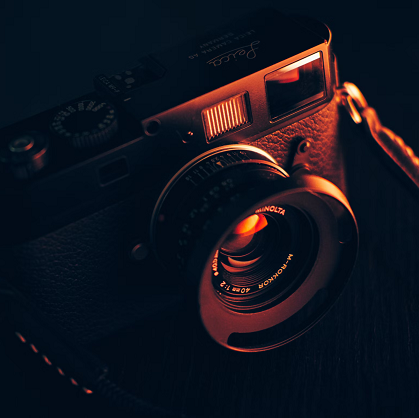
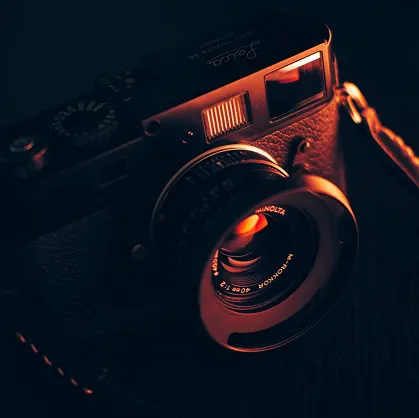
Optimisation

diff --git a/index.html b/index.html
@@ -3,6 +3,8 @@
 <head>
 	<meta charset="UTF-8">
 	<meta name="viewport" content="width=device-width, initial-scale=1.0">
+	<meta name="theme-color" content="#fff"/>
+	<meta name="description" content="Nina Carducci photographe mariage portfolio Bordeaux shooting séances retouches">
 	<link rel="stylesheet" href="./assets/bootstrap/bootstrap.min.css">
 	<link rel="stylesheet" href="./assets/style.css">
 	<link rel="preconnect" href="https://fonts.googleapis.com">
@@ -23,7 +25,7 @@
 				<li><a href="#gallery">Galerie</a></li>
 				<li><a href="#services">Service</a></li>
 				<li><a href="#contact">Contact</a></li>
-				<li><a class="social-link" href="https://www.instagram.com/ninacarducci.photo/?hl=fr" rel=noopener target="_blank"><img src="assets/images/instagram.webp" alt="Logo Instagram"></a></li>
+				<li><a class="social-link" href="https://www.instagram.com/ninacarducci.photo/?hl=fr" rel=noopener target="_blank"><img src="assets/images/instagram.webp" alt="Logo Instagram" width="20" height="20"></a></li>
 			</ul>
 		</div>
 	</div>
@@ -36,13 +38,13 @@
 			</div>
 			<div class="carousel-inner">
 				<div class="carousel-item active">
-					<img src="./assets/images/slider/ryoji-iwata-wUZjnOv7t0g-unsplash.webp" class="d-block w-100" alt="Photo d'un homme traversant un passage piéton">
+					<img src="./assets/images/slider/ryoji-iwata-wUZjnOv7t0g-unsplash.webp" class="d-block w-100" alt="Photo d'un homme traversant un passage piéton" width="1920" height="888">
 				</div>
 				<div class="carousel-item">
-					<img src="./assets/images/slider/nicholas-green-nPz8akkUmDI-unsplash.webp" class="d-block w-100" alt="Photo de foule d'un concert">
+					<img src="./assets/images/slider/nicholas-green-nPz8akkUmDI-unsplash.webp" class="d-block w-100" alt="Photo de foule d'un concert" width="1920" height="888">
 				</div>
 				<div class="carousel-item">
-					<img src="./assets/images/slider/edward-cisneros-3_h6-1NPDGw-unsplash.webp" class="d-block w-100" alt="Photo d'un couple marié qui s'embrasse">
+					<img src="./assets/images/slider/edward-cisneros-3_h6-1NPDGw-unsplash.webp" class="d-block w-100" alt="Photo d'un couple marié qui s'embrasse" width="1920" height="888">
 				</div>
 			</div>
 			<button class="carousel-control-prev" type="button" data-bs-target="#carouselExampleIndicators" data-bs-slide="prev">
@@ -57,11 +59,11 @@
 	</div>
 	<div id="about">
 		<div class="picture left">
-			<img src="./assets/images/nina.webp" alt="Nina Carducci Photographe Professionnelle" loading="lazy">
+			<img src="./assets/images/nina.webp" alt="Nina Carducci Photographe Professionnelle" loading="lazy" width="560" height="558">
 		</div>
 		<div id="about-me">
 			<h3 class="about-me__title">A propos de moi</h3>
-			<h6 class="about-me__introduction">Devenir photographe était pour moi une évidence. Comme si j’y étais prédestiné. Saisir un moment, une émotion, une situation, un endroit, une lumière et les rendre immortels, voilà ce qui me fait vibrer.</h6>
+			<h4 class="about-me__introduction">Devenir photographe était pour moi une évidence. Comme si j’y étais prédestiné. Saisir un moment, une émotion, une situation, un endroit, une lumière et les rendre immortels, voilà ce qui me fait vibrer.</h4>
 			<p>Nous passons notre vie à chercher le bonheur, et lorsque nous y touchons, nous n’avons qu’une envie : le figer au travers de photographies pour le savourer avec les personnes qui sont importantes à nos yeux, ou le partager au plus grand nombre. C’est ce que je vous propose : saisir ces merveilleux moments au travers de mon regard, mon approche, ma technique. Rendre ces moments immortels, afin que vous puissiez y puiser de l’amour, du bonheur, de la tendresse et de lumière à chaque fois que vous poserez les yeux sur vos photos.</p>
 		</div>
 	</div>
@@ -69,15 +71,15 @@
 		<h3 class="title">Portfolio</h3>
 		<div class="container py-3">
 			<div class="gallery">
-				<img data-gallery-tag="Concert" class="gallery-item" src="./assets/images/gallery/concerts/aaron-paul-wnX-fXzB6Cw-unsplash.webp" alt="Photo d'une salle de concert" loading="lazy"/>
-				<img data-gallery-tag="Entreprises" class="gallery-item" src="./assets/images/gallery/entreprise/ali-morshedlou-WMD64tMfc4k-unsplash.webp" alt="Photo d'un homme en costume" loading="lazy"/>
-				<img data-gallery-tag="Entreprises" class="gallery-item" src="./assets/images/gallery/entreprise/jason-goodman-tHO1_OuKbg0-unsplash.webp" alt="Photo d'une femme qui sourie dans un open space" loading="lazy"/>
-				<img data-gallery-tag="Mariages" class="gallery-item" src="./assets/images/gallery/mariage/hannah-busing-RvF2R_qMpRk-unsplash.webp" alt="photo de mariage de mains qui se rejoignent" loading="lazy"/>
-				<img data-gallery-tag="Portrait" class="gallery-item" src="./assets/images/gallery/portraits/ade-tunji-rVkhWWZFAtQ-unsplash.webp" alt="photo prtrait d'un homme" loading="lazy"/>
-				<img data-gallery-tag="Mariages" class="gallery-item" src="./assets/images/gallery/mariage/jakob-owens-SiniLJkXhMc-unsplash.webp" alt="Photo d'un couple marié devant un palmier" loading="lazy"/>
-				<img data-gallery-tag="Portrait" class="gallery-item" src="./assets/images/gallery/portraits/nino-van-prattenburg--443cl1uR_8-unsplash.webp" alt="Phot portrait d'une femme" loading="lazy"/>
-				<img data-gallery-tag="Concert" class="gallery-item" src="./assets/images/gallery/concerts/austin-neill-hgO1wFPXl3I-unsplash.webp" alt="Photo d'un chanteur sur scène" loading="lazy"/>
-				<img data-gallery-tag="Entreprises" class="gallery-item" src="./assets/images/gallery/entreprise/mateus-campos-felipe-Fsgzm8N0hIY-unsplash.webp" alt="Photo d'une femme qui sourie devant son pc portable" loading="lazy"/>
+				<img data-gallery-tag="Concert" class="gallery-item" src="./assets/images/gallery/concerts/aaron-paul-wnX-fXzB6Cw-unsplash.webp" alt="Photo d'une salle de concert" loading="lazy" width="440" height="440"/>
+				<img data-gallery-tag="Entreprises" class="gallery-item" src="./assets/images/gallery/entreprise/ali-morshedlou-WMD64tMfc4k-unsplash.webp" alt="Photo d'un homme en costume" loading="lazy" width="440" height="440"/>
+				<img data-gallery-tag="Entreprises" class="gallery-item" src="./assets/images/gallery/entreprise/jason-goodman-tHO1_OuKbg0-unsplash.webp" alt="Photo d'une femme qui sourie dans un open space" loading="lazy" width="440" height="440"/>
+				<img data-gallery-tag="Mariages" class="gallery-item" src="./assets/images/gallery/mariage/hannah-busing-RvF2R_qMpRk-unsplash.webp" alt="photo de mariage de mains qui se rejoignent" loading="lazy" width="440" height="440"/>
+				<img data-gallery-tag="Portrait" class="gallery-item" src="./assets/images/gallery/portraits/ade-tunji-rVkhWWZFAtQ-unsplash.webp" alt="photo prtrait d'un homme" loading="lazy" width="440" height="440"/>
+				<img data-gallery-tag="Mariages" class="gallery-item" src="./assets/images/gallery/mariage/jakob-owens-SiniLJkXhMc-unsplash.webp" alt="Photo d'un couple marié devant un palmier" loading="lazy" width="440" height="440"/>
+				<img data-gallery-tag="Portrait" class="gallery-item" src="./assets/images/gallery/portraits/nino-van-prattenburg--443cl1uR_8-unsplash.webp" alt="Phot portrait d'une femme" loading="lazy" width="440" height="440"/>
+				<img data-gallery-tag="Concert" class="gallery-item" src="./assets/images/gallery/concerts/austin-neill-hgO1wFPXl3I-unsplash.webp" alt="Photo d'un chanteur sur scène" loading="lazy" width="440" height="440"/>
+				<img data-gallery-tag="Entreprises" class="gallery-item" src="./assets/images/gallery/entreprise/mateus-campos-felipe-Fsgzm8N0hIY-unsplash.webp" alt="Photo d'une femme qui sourie devant son pc portable" loading="lazy" width="440" height="440"/>
 			</div>
 		</div>
 		<div class="quote">
@@ -148,7 +150,7 @@
 				</form>
 			</div>
 			<div class="picture right">
-				<img src="./assets/images/camera.webp" alt="Photo d'ilustration d'un appareil photo" loading="lazy">
+				<img src="./assets/images/camera.webp" alt="Photo d'ilustration d'un appareil photo" loading="lazy" width="417" height="417">
 			</div>
 		</div>
 	</div>
